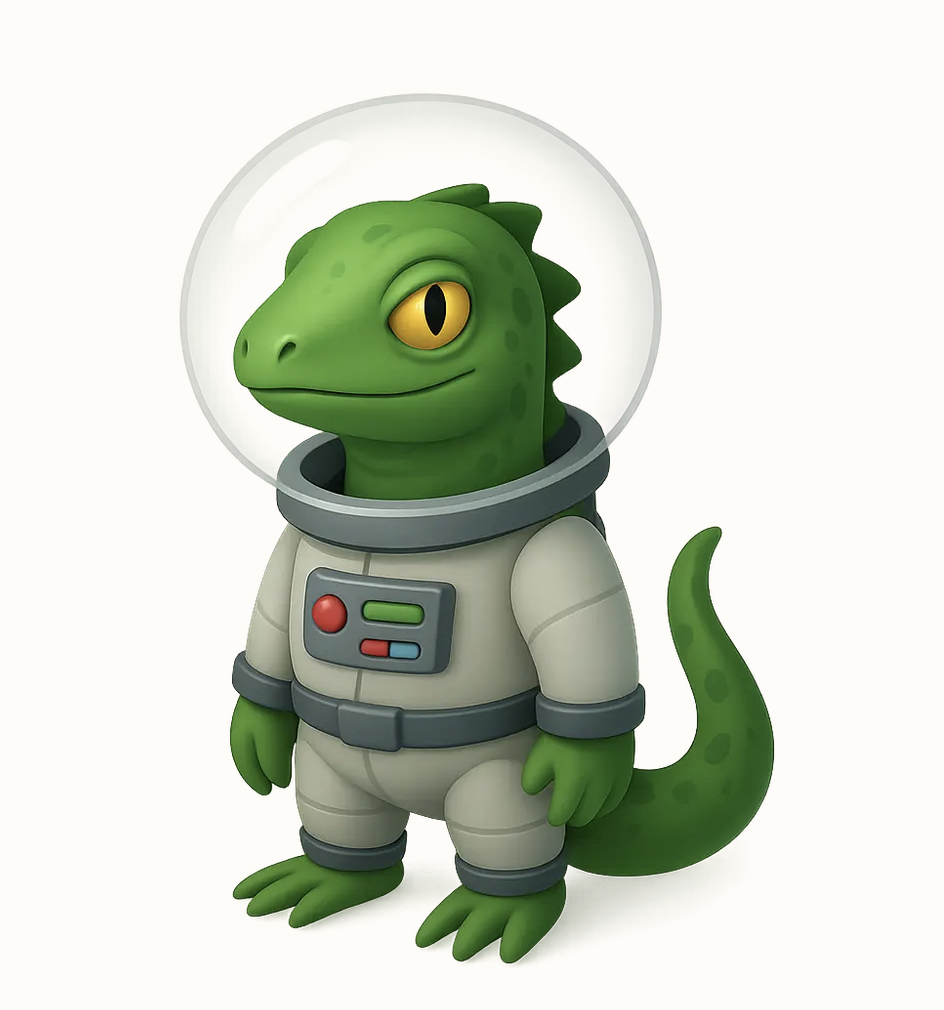
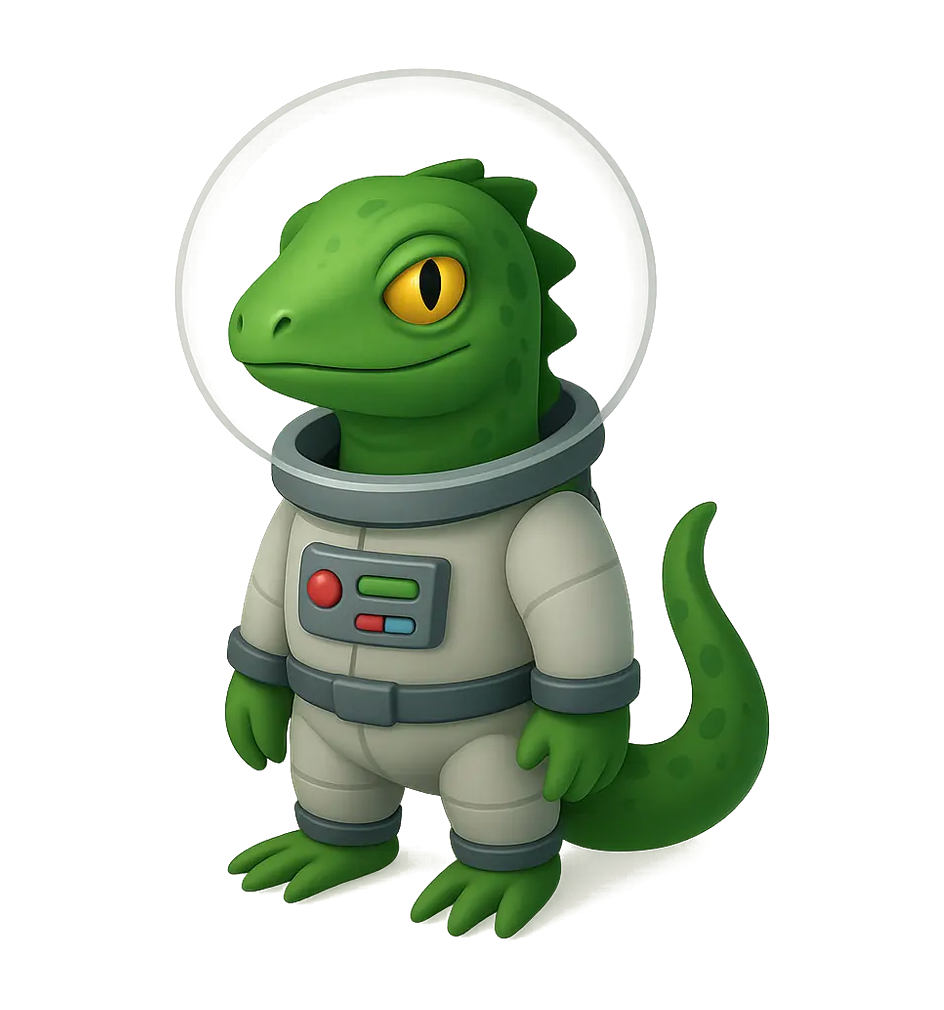
Polish picker motion and mascot image

Changed region(s): [[0.1843, 0.0614, 0.8294, 0.9515], [0.6758, 0.2149, 0.7066, 0.2455], [0.1843, 0.3683, 0.215, 0.399]]

diff --git a/src/design-system/patterns/EraPicker/EraPicker.tsx b/src/design-system/patterns/EraPicker/EraPicker.tsx
@@ -8,7 +8,7 @@ const pickerContainerVariants = {
   hidden: { opacity: 0 },
   visible: {
     opacity: 1,
-    transition: { staggerChildren: 0.05, delayChildren: 0 },
+    transition: { staggerChildren: 0.025, delayChildren: 0 },
   },
 };
 
@@ -17,7 +17,7 @@ const pickerRowVariants = {
   visible: {
     opacity: 1,
     y: 0,
-    transition: { type: 'spring' as const, stiffness: 450, damping: 26 },
+    transition: { type: 'spring' as const, stiffness: 720, damping: 32, mass: 0.45 },
   },
 };
 

diff --git a/src/design-system/patterns/GuestPicker/GuestPicker.tsx b/src/design-system/patterns/GuestPicker/GuestPicker.tsx
@@ -9,7 +9,7 @@ const pickerContainerVariants = {
   hidden: { opacity: 0 },
   visible: {
     opacity: 1,
-    transition: { staggerChildren: 0.05, delayChildren: 0 },
+    transition: { staggerChildren: 0.025, delayChildren: 0 },
   },
 };
 
@@ -18,7 +18,7 @@ const pickerRowVariants = {
   visible: {
     opacity: 1,
     y: 0,
-    transition: { type: 'spring' as const, stiffness: 450, damping: 26 },
+    transition: { type: 'spring' as const, stiffness: 720, damping: 32, mass: 0.45 },
   },
 };
 

diff --git a/src/design-system/patterns/ThemePicker/ThemePicker.tsx b/src/design-system/patterns/ThemePicker/ThemePicker.tsx
@@ -8,7 +8,7 @@ const pickerContainerVariants = {
   hidden: { opacity: 0 },
   visible: {
     opacity: 1,
-    transition: { staggerChildren: 0.05, delayChildren: 0 },
+    transition: { staggerChildren: 0.025, delayChildren: 0 },
   },
 };
 
@@ -17,7 +17,7 @@ const pickerRowVariants = {
   visible: {
     opacity: 1,
     y: 0,
-    transition: { type: 'spring' as const, stiffness: 450, damping: 26 },
+    transition: { type: 'spring' as const, stiffness: 720, damping: 32, mass: 0.45 },
   },
 };
 

diff --git a/src/design-system/patterns/UserMenu/UserMenu.css b/src/design-system/patterns/UserMenu/UserMenu.css
@@ -158,6 +158,8 @@
   height: 48px;
   border-radius: var(--ds-radius-md);
   align-self: center;
+  object-fit: contain;
+  object-position: center;
 }
 
 .ds-user-menu__cta-image--placeholder {
